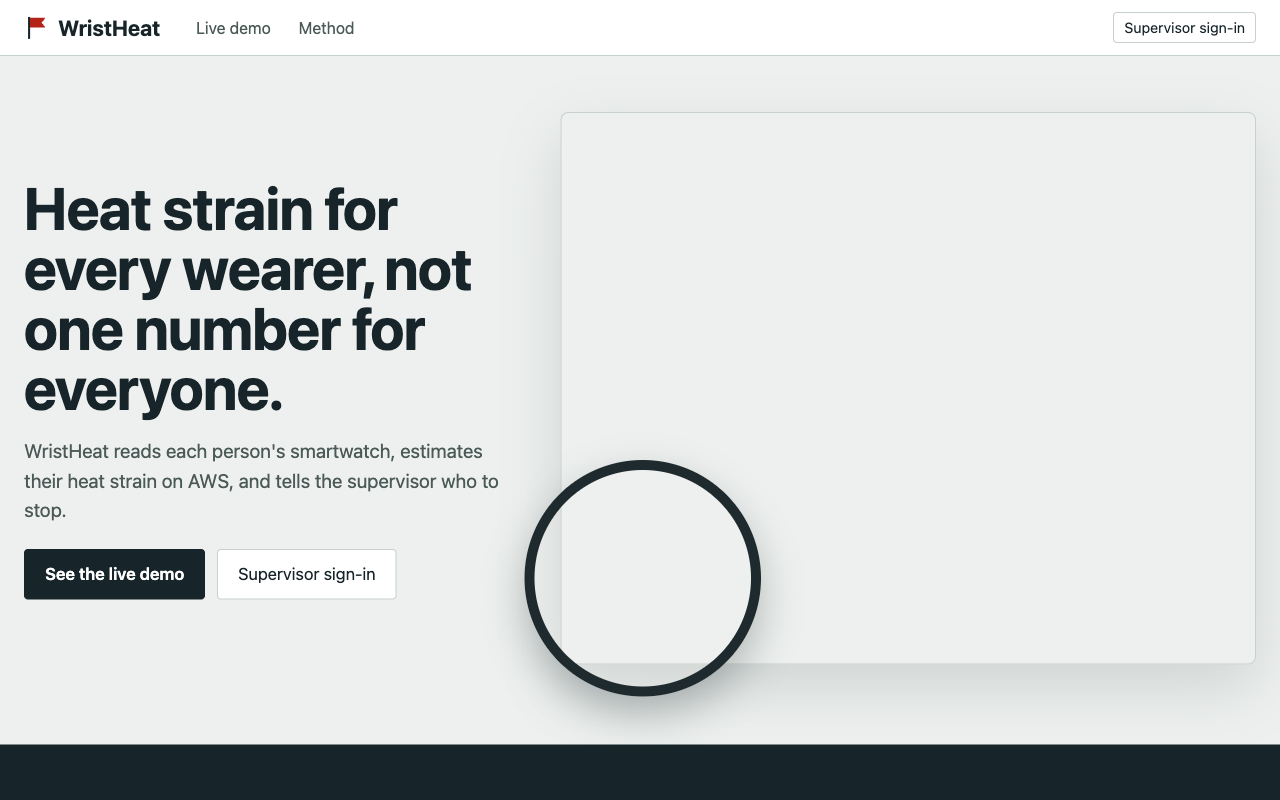
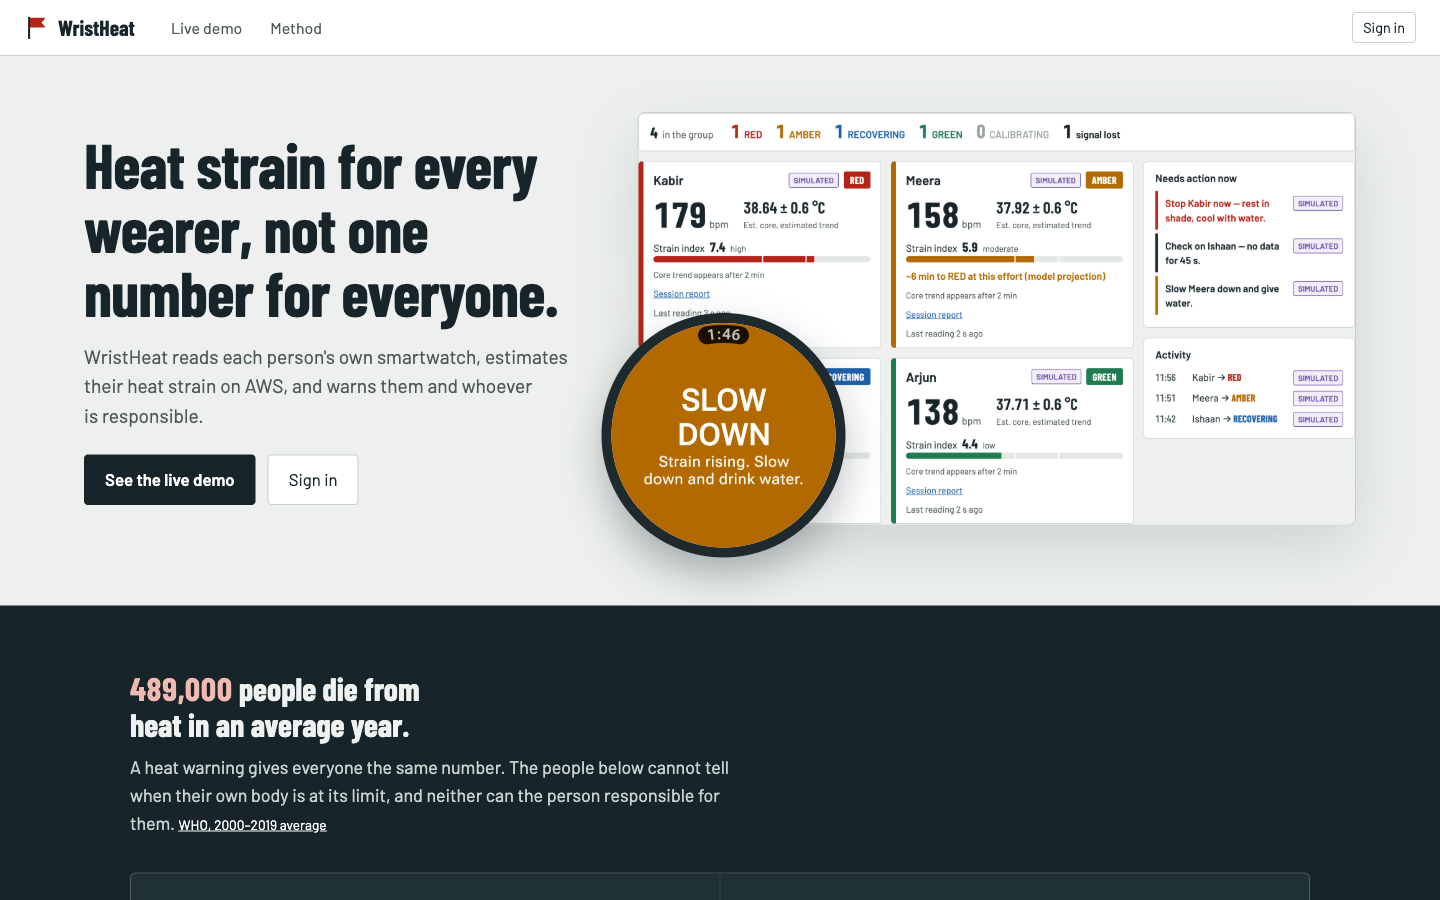
docs: README for solo and group modes, global research; landing WHO source, hero image fixes; group view h1

diff --git a/dashboard/src/pages/Landing.tsx b/dashboard/src/pages/Landing.tsx
@@ -49,7 +49,7 @@ export function Landing() {
             </div>
           </div>
           <figure className="hero-visual">
-            <img className="hero-shot" fetchPriority="high" src="/landing/command.png" width={1232} height={978}
+            <img className="hero-shot" {...{ fetchpriority: "high" }} src="/landing/command.png" width={2304} height={1322}
                  alt="Supervisor console: group status counts, a list of who needs action now, and live trainee cards" />
             <img className="hero-watch" src="/landing/watch-amber.png" width={450} height={450}
                  alt="Galaxy Watch showing SLOW DOWN with advice to drink water" />
@@ -58,7 +58,7 @@ export function Landing() {
 
         <section className="scale" aria-labelledby="scale-title">
           <h2 id="scale-title" className="scale-lead"><span className="num">489,000</span> people die from heat in an average year.</h2>
-          <p className="scale-sub">A heat warning gives everyone the same number. The people below cannot tell when their own body is at its limit, and neither can the person responsible for them.</p>
+          <p className="scale-sub">A heat warning gives everyone the same number. The people below cannot tell when their own body is at its limit, and neither can the person responsible for them. <a className="scale-src" href="https://www.who.int/news-room/fact-sheets/detail/climate-change-heat-and-health" target="_blank" rel="noreferrer">WHO, 2000–2019 average</a></p>
           <div className="scale-grid">
             {STATS.map((x) => (
               <article key={x.who} className={`stat ${x.wide ? 'stat-wide' : ''}`}>

diff --git a/dashboard/src/__tests__/public.test.tsx b/dashboard/src/__tests__/public.test.tsx
@@ -27,6 +27,7 @@ describe('Landing page', () => {
       'Pilgrims, runners and crowds', 'India, summer 2024']) {
       expect(screen.getByRole('heading', { name: who })).toBeInTheDocument();
     }
+    expect(screen.getByRole('link', { name: 'WHO, 2000–2019 average' })).toHaveAttribute('href', expect.stringContaining('who.int'));
     expect(screen.getByRole('link', { name: 'ILO, 2024' })).toHaveAttribute('href', expect.stringContaining('ilo.org'));
     for (const h of ['On your own', 'With a group', 'Plan around the heat, before anyone starts']) {
       expect(screen.getByRole('heading', { name: h })).toBeInTheDocument();
@@ -41,6 +42,7 @@ describe('Public demo', () => {
   it('shows only simulated trainees, labelled, with no supervisor actions', async () => {
     at('/demo');
     expect(await screen.findByText('Kabir')).toBeInTheDocument();
+    expect(screen.getByRole('heading', { level: 1, name: 'Group view' })).toBeInTheDocument();
     expect(screen.getByText('Public demo. All trainees here are SIMULATED. Real wearers are visible only to signed-in supervisors.')).toBeInTheDocument();
     expect(screen.queryByRole('button', { name: /Acknowledge/ })).not.toBeInTheDocument();
     expect(screen.queryByRole('button', { name: 'Refresh heat data' })).not.toBeInTheDocument();

diff --git a/dashboard/src/styles.css b/dashboard/src/styles.css
@@ -385,6 +385,7 @@ h1, h2, h3 { text-wrap: balance; }
 .stat-figure { font-size: clamp(1.8rem, 3vw, 2.5rem); font-weight: 700; margin: 0; line-height: 1; color: #fff; }
 .stat h3 { font-size: 1.02rem; margin: 8px 0 6px; color: #f0b9b2; font-weight: 600; }
 .stat p { margin: 0; color: #c9d3cf; line-height: 1.5; }
+.scale-src { color: #fff; font-size: 0.85rem; white-space: nowrap; }
 .stat a { color: #fff; font-size: 0.85rem; white-space: nowrap; }
 .modes { max-width: 1320px; margin: 0 auto; padding: 72px 24px 24px; display: grid; gap: 56px; }
 .mode { display: grid; gap: 32px; align-items: center; }
@@ -403,3 +404,5 @@ h1, h2, h3 { text-wrap: balance; }
   .plan { padding: 40px 16px 48px; }
   .scale { padding: 48px 16px; }
 }
+
+.sr-only { position: absolute; width: 1px; height: 1px; padding: 0; margin: -1px; overflow: hidden; clip: rect(0 0 0 0); white-space: nowrap; border: 0; }

diff --git a/dashboard/src/pages/Live.tsx b/dashboard/src/pages/Live.tsx
@@ -17,6 +17,7 @@ export function Live({ roster, error, readOnly = false }: { roster: Roster | nul
   const pm25 = roster.site?.env?.pm25 ?? null;
   return (
     <main id="main" className="page">
+      <h1 className="sr-only">Group view</h1>
       <SiteStrip site={roster.site} readOnly={readOnly} />
       <TodayPanel site={roster.site} serverTime={roster.server_time} />
       {error && <p className="warn" role="alert">Connection problem: {error}. Showing the last data received.</p>}

diff --git a/README.md b/README.md
@@ -2,7 +2,7 @@
 
 **Heat strain for every wearer, not one number for everyone.**
 
-WristHeat reads each person's own smartwatch, estimates their heat strain on AWS, and tells the supervisor of a group exerting in heat who needs to stop, before, during and after the session.
+WristHeat reads each person's own smartwatch, estimates their heat strain on AWS, and warns them and whoever is responsible: a runner on their own, or the supervisor of a group exerting in heat, before, during and after the session.
 
 Built for **AWS Environmental Hacks 2026** (Heat & Water track). Research prototype, not a medical device.
 
@@ -11,13 +11,33 @@ Built for **AWS Environmental Hacks 2026** (Heat & Water track). Research protot
 | **Live site** | https://vvs0o13cs4.execute-api.ap-south-1.amazonaws.com |
 | **Public demo** (simulated group, no sign-in) | https://vvs0o13cs4.execute-api.ap-south-1.amazonaws.com/demo |
 | **How the estimate works** | https://vvs0o13cs4.execute-api.ap-south-1.amazonaws.com/method |
-| **Supervisor console** | `/console` (Cognito sign-in) |
+| **Sign in** | `/console` (Cognito). Supervisors get the group console; a solo wearer is sent to their own page at `/me` |
 
 ![WristHeat landing page](docs/images/landing.png)
 
 ## Why
 
-In August and September 2024, 12 candidates died during a 10 km excise constable recruitment run in Jharkhand ([Deccan Herald](https://www.deccanherald.com/amp/story/india%2Fjharkhand%2Fhumidity-lack-of-health-screening-change-in-rules-some-reasons-behind-12-deaths-at-jharkhand-recruitment-drive-report-3181567)). A heat warning gives everyone in a place the same number. The person running cannot tell when *their own* body is at its limit, and neither can the person supervising them.
+About **489,000 people die from heat in an average year** ([WHO](https://www.who.int/news-room/fact-sheets/detail/climate-change-heat-and-health), 2000–2019). A heat warning gives everyone in a place the same number. The person exerting cannot tell when *their own* body is at its limit, and neither can the person responsible for them.
+
+| Who | What happened | Source |
+|---|---|---|
+| Outdoor and manual workers | 2.41 billion workers face excessive heat; about 19,000 die and 22.85 million are injured each year | [ILO, 2024](https://www.ilo.org/publications/ensuring-safety-and-health-work-changing-climate) |
+| School children | 23 students collapsed after a morning assembly in Chitrakoot, UP (Aug 2024); students fainted at assemblies across Bihar in May | [Careers360](https://news.careers360.com/uttar-pradesh-23-students-faint-at-school-in-ups-chitrakoot-due-heat) |
+| Recruitment and military training | 12 candidates died on a 10 km excise constable recruitment run in Jharkhand (2024); the US armed forces logged 471 heat strokes that year | [Deccan Herald](https://www.deccanherald.com/amp/story/india%2Fjharkhand%2Fhumidity-lack-of-health-screening-change-in-rules-some-reasons-behind-12-deaths-at-jharkhand-recruitment-drive-report-3181567), [MSMR, June 2025](https://health.mil/News/Articles/2025/06/01/MSMR-Heat-Illness-2025) |
+| Pilgrims, runners and crowds | 1,301 deaths during the 2024 Hajj in heat up to 51.8 °C; the 2007 Chicago Marathon was halted | [Hajj 2024 summary](https://en.wikipedia.org/wiki/2024_Hajj_extreme_heat_disaster) |
+| India, summer 2024 | 40,984 suspected heatstroke cases and 114 deaths, 1 March to 18 June, hospital reporting only | [NCDC via South First](https://thesouthfirst.com/health/summers-wrath-114-heatwave-deaths-reported-nearly-41000-cases-of-suspected-heatstroke) |
+
+## Two ways to use it
+
+| | On your own (solo) | With a group |
+|---|---|---|
+| Who | A runner, hiker or lone worker | A coach, PE teacher, drill instructor or site supervisor |
+| Sign-in | Cognito group `wearers`, sees only their own data at `/me` | Cognito group `supervisors`, sees the whole group at `/console` |
+| On RED | The watch alerts the wearer; a button on `/me` confirms "I've stopped and I'm cooling down" | The supervisor is emailed with a voice alert and acknowledges in the console |
+| No response in 90 s | The wearer's emergency contact is emailed | The backup contact is emailed |
+| Afterwards | Personal run history and session reports | Command view, incident log and session reports |
+
+Solo wearers never appear in the group roster or the public demo, and a wearer sign-in gets `403` on every group route.
 
 ## What it does
 
@@ -66,11 +86,11 @@ More detail: [`docs/architecture.md`](docs/architecture.md). The risk engine is 
 | Step Functions (Standard) | Escalation: notify → wait for acknowledgement → escalate → wait for confirmed recovery → close |
 | EventBridge Scheduler | Refreshes site heat and air every 10 min |
 | Amazon Polly (neural Kajal, en-IN + hi-IN) | Spoken alert in English and Hindi |
-| Amazon SNS (email) | Alerts the supervisor, then the backup contact |
+| Amazon SNS (email) | Alerts the supervisor, then the backup contact (or a solo wearer's emergency contact) |
 | Amazon Bedrock (Converse, Nova Lite via APAC profile) | Writes the incident report from logged facts only (template fallback) |
 | Amazon S3 | Alert audio |
 | Amazon CloudFront | Dashboard CDN when enabled (`-c cloudFront=true`); see Known limits |
-| Amazon Cognito | Supervisor sign-in |
+| Amazon Cognito | Sign-in with two groups: `supervisors` (group console) and `wearers` (own data only) |
 | AWS Secrets Manager | Holds the device token |
 | CloudWatch + X-Ray (Powertools for AWS Lambda) | Logs, custom metrics, a `WristHeat` dashboard, traces |
 | AWS CDK (TypeScript) / CloudFormation | The entire stack as code, one deploy command |
@@ -101,7 +121,8 @@ make test                                  # engine, API, escalation, simulator
 
 # Deploy (emails in a git-ignored .env.deploy: WH_SUPERVISOR_EMAIL=…, WH_BACKUP_EMAIL=…)
 bash scripts/deploy.sh                     # bootstraps CDK if needed, builds layers + dashboard, deploys
-.venv/bin/python scripts/seed.py --name "<wearer>" --age <n> --supervisor-email <email>
+.venv/bin/python scripts/seed.py --name "<wearer>" --age <n> --supervisor-email <email> \
+    --wearer-username <name> --wearer-email <email>   # optional: solo wearer sign-in linked to T1
 .venv/bin/python scripts/smoke.py          # → OK GREEN
 ```
 
